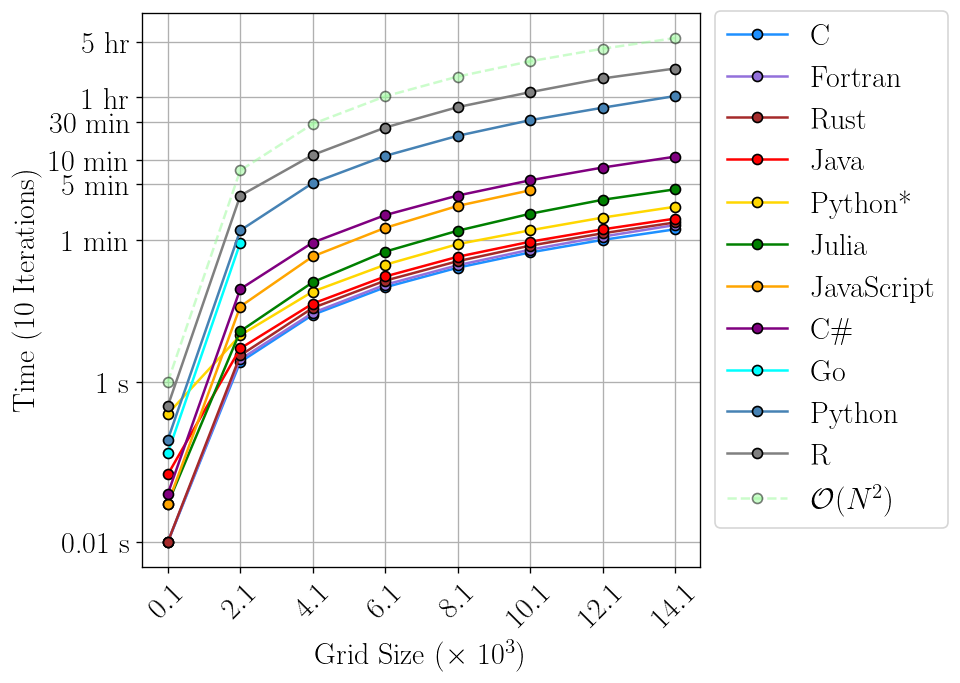
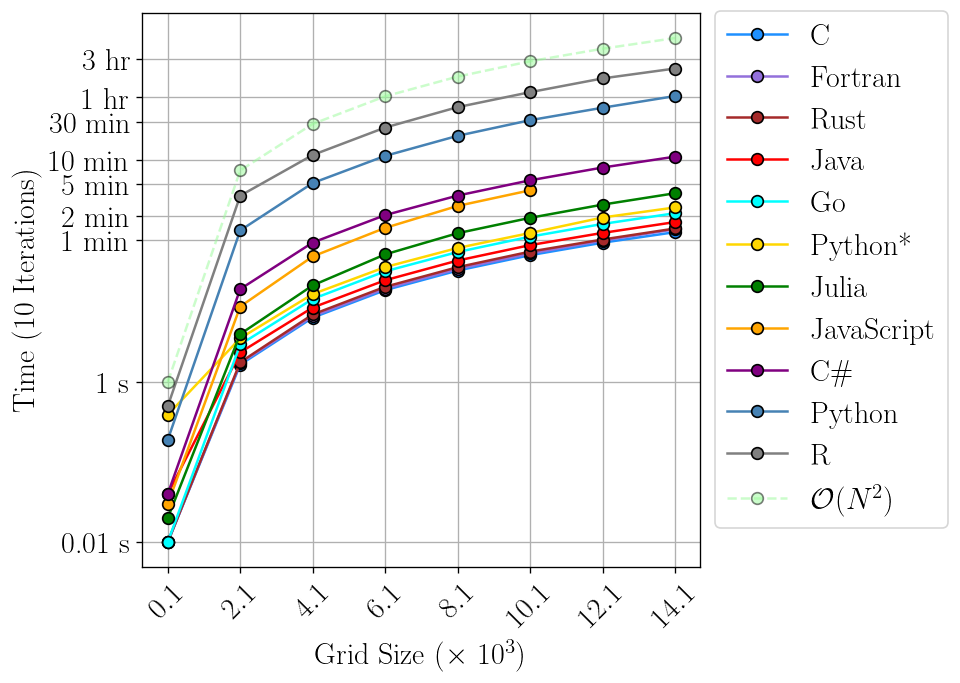
go fix

diff --git a/conways.js b/conways.js
@@ -1,5 +1,5 @@
 // -----------------------------------------------------------------------------
-// conways.js : Conways game of life in Java Script (46.46)
+// conways.js : Conways game of life in Java Script
 // -----------------------------------------------------------------------------
 
 function mod(a, b) {

diff --git a/plot.py b/plot.py
@@ -12,28 +12,27 @@ data = np.loadtxt('data.dat')
 N = data[:,0]
 to_plot = data[:,1:]
 
-colors = ['dodgerblue','mediumpurple','brown','red','gold','green',
-        'orange', 'purple', 'cyan', 'steelblue', 'grey']
-labels = ['C','Fortran','Rust','Java','Python*', 'Julia', 'JavaScript',
-         'C\#', 'Go', 'Python', 'R']
+colors = ['dodgerblue','mediumpurple','brown','red', 'cyan', 'gold','green',
+        'orange', 'purple', 'steelblue', 'grey']
+labels = ['C','Fortran','Rust','Java', 'Go', 'Python*', 'Julia', 'JavaScript',
+         'C\#', 'Python', 'R']
 
 fig = plt.figure(figsize = (6,6))
 ax = plt.gca()
 
 for i, dat in enumerate(to_plot.T):
     plt.plot(N,dat, marker = 'o', markeredgecolor = 'k', color = colors[i], 
-        label = labels[i])
+        label = labels[i], markersize = 7)
 plt.plot(N,N**2/10000,  marker = 'o', ls = '--', markeredgecolor = 'k', 
-        color = 'palegreen', alpha= 0.5, label = '$\mathcal{O}$($N^2$)')
-#plt.plot(N,N/10000,  marker = 'o', ls = '--', markeredgecolor = 'k', 
-        #color = 'white', label = '$\mathcal{O}$($N$)')
+        color = 'palegreen', alpha= 0.5, label = '$\mathcal{O}$($N^2$)',
+        markersize = 7)
 ax.set_yscale('log')
 #ax.set_xscale('log')
 ax.set_xlabel('Grid Size ($\\times$ $10^3$)')
 ax.set_ylabel('Time (10 Iterations)')
-ax.set_yticks([0.01,1,60,300,600,1800,3600,18000])
-ax.set_yticklabels(['0.01 s','1 s','1 min','5 min','10 min',
-                '30 min','1 hr','5 hr'])
+ax.set_yticks([0.01,1,60,120,300,600,1800,3600,10800])
+ax.set_yticklabels(['0.01 s','1 s','1 min','2 min', '5 min','10 min',
+                '30 min','1 hr','3 hr'])
 ax.set_xticks([100,2100,4100,6100,8100,10100,12100,14100])
 ax.set_xticklabels(['$0.1$','$2.1$','$4.1$','$6.1$',
                 '$8.1$','$10.1$','$12.1$','$14.1$'])

diff --git a/conways_go/conways.go b/conways_go/conways.go
@@ -1,5 +1,5 @@
 // -----------------------------------------------------------------------------
-// conways.go : Conways game of life in Go (5 min 11 sec)
+// conways.go : Conways game of life in Go
 // -----------------------------------------------------------------------------
 
 package main
@@ -20,9 +20,7 @@ func write_file(name string, rows int, cols int, world []int) {
 
     f, _ := os.Create(name)
     for i := 0; i < rows; i++ {
-        for j := 0; j < cols; j++ {
-            fmt.Fprintf(f, "%d ", world[i * cols + j])
-        }
+        fmt.Fprintf(f, "%d ", world[i * cols: i * cols + rows])
         fmt.Fprintf(f, "\n")
     }
 }

diff --git a/conways.py b/conways.py
@@ -1,5 +1,5 @@
 # ------------------------------------------------------------------------------
-# conways.py : Conways game of life in python with numba and numpy (19.76)
+# conways.py : Conways game of life in python with numba and numpy
 # ------------------------------------------------------------------------------
 
 import numpy as np

diff --git a/conways_rust/src/conways.rs b/conways_rust/src/conways.rs
@@ -1,5 +1,5 @@
 // -----------------------------------------------------------------------------
-// conways.rc : Conways game of life in Rust (11.71 sec)
+// conways.rc : Conways game of life in Rust
 // -----------------------------------------------------------------------------
 
 extern crate rand;

diff --git a/conways.java b/conways.java
@@ -1,5 +1,5 @@
 // -----------------------------------------------------------------------------
-// conways.java : Conways game of life in Java (13.88)
+// conways.java : Conways game of life in Java
 // -----------------------------------------------------------------------------
 
 import java.io.*;

diff --git a/conways.cs b/conways.cs
@@ -1,5 +1,5 @@
 // -----------------------------------------------------------------------------
-// conways.cs : Conways game of life in C# (1 min 13 sec)
+// conways.cs : Conways game of life in C#
 // -----------------------------------------------------------------------------
 
 using System;

diff --git a/conways.c b/conways.c
@@ -1,5 +1,5 @@
 // -----------------------------------------------------------------------------
-// conways.c : Conways game of life in C (9.35)
+// conways.c : Conways game of life in C
 // -----------------------------------------------------------------------------
 
 #include <stdio.h>

diff --git a/README.md b/README.md
@@ -5,15 +5,15 @@ languages as faithful as possible to the Python code.
 
 | Language    | Command                            | Memory   | Lines | Characters | Time         |
 | ----------- | -----------------------------------| -------- | ----- | ---------- | ------------ |
-| C (O3)      | `./conways 500 500 1000`           | 3 Mb     |  95   |   2883     | 9.35 sec     |
-| Fortran (Of)| `./conways 500 500 1000`           | 4 Mb     |  97   |   2770     | 9.94 sec     |
-| Rust (O3)   | `./conways 500 500 1000`           | 4 Mb     |  90   |   3088     | 11.71 sec    |
-| Java        | `java Conways 500 500 1000`        | 281 Mb   | 103   |   3392     | 13.88 sec    |
+| Fortran (Of)| `./conways 500 500 1000`           | 4 Mb     |  97   |   2770     | 9.72 sec     |
+| C (O3)      | `./conways 500 500 1000`           | 3 Mb     |  95   |   2883     | 9.82 sec     |
+| Rust (O3)   | `./conways 500 500 1000`           | 4 Mb     |  90   |   3088     | 10.87 sec    |
+| Java        | `java Conways 500 500 1000`        | 281 Mb   | 103   |   3392     | 13.93 sec    |
 | Python (JIT)| `python conways.py 500 500 1000`   | 131 Mb   |  56   |   1688     | 19.76 sec    |
+| Go          | `./conways 500 500 1000`           | 11 Mb    |  90   |   2628     | 20.26 sec    |
 | Julia       | `julia conways.jl 500 500 1000`    | 131 Mb   |  60   |   1751     | 22.72 sec    |
 | JavaScript  | `node conways.js 500 500 1000`     | 120 Mb   |  84   |   2445     | 46.46 sec    |
 | C#          | `./conways.exe 500 500 1000`       | 40 Mb    |  94   |   3465     | 1 min 13 sec |
-| Go          | `./conways 500 500 1000`           | 9 Mb     |  92   |   2680     | 5 min 11 sec |
 | Python      | `python conways.py 500 500 1000`   | 85 Mb    |  54   |   1620     | 7 min 15 sec |
 | R           | `Rscript conways.r 500 500 1000`   | 86 Mb    |  55   |   1871     | 16 min 11 sec|
 
